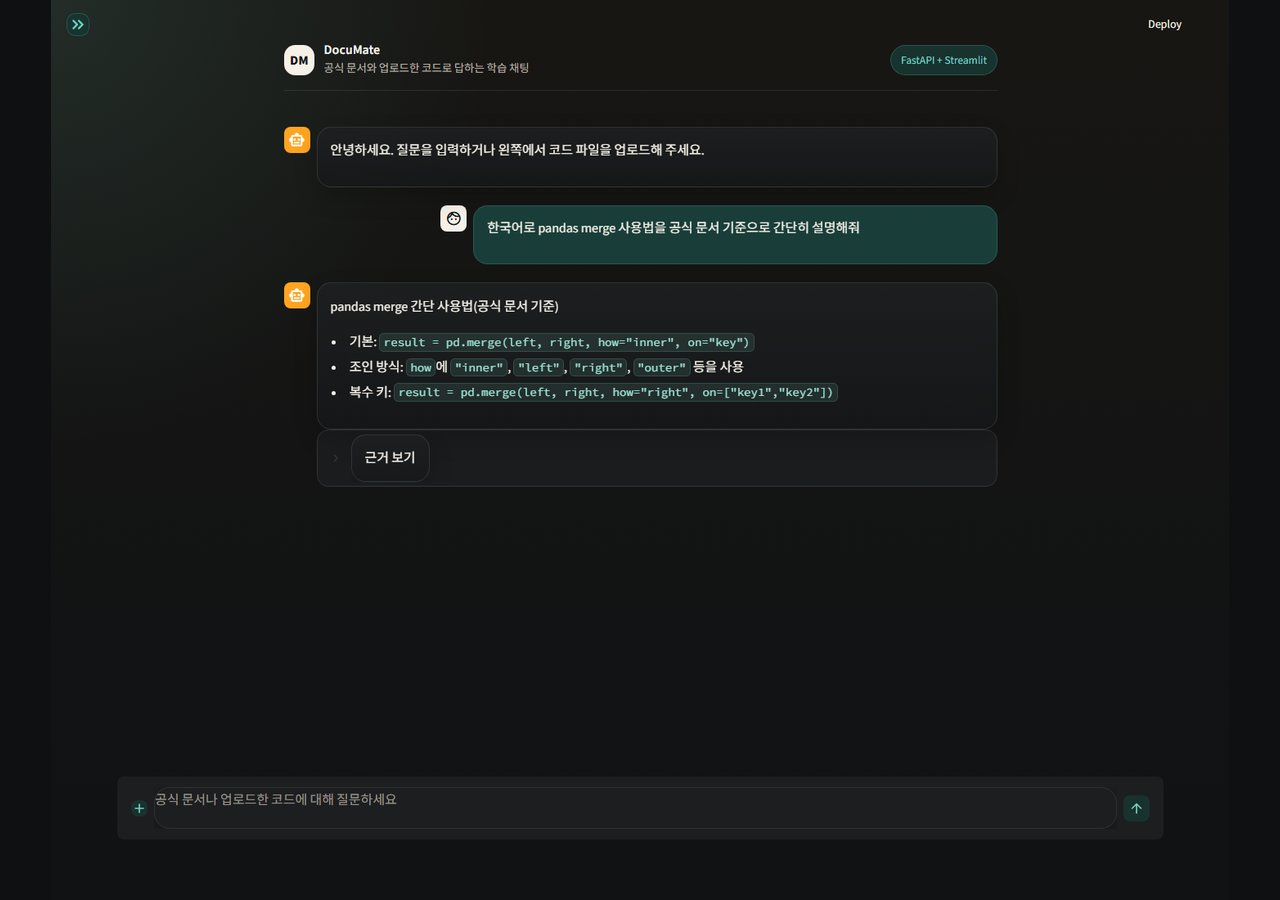
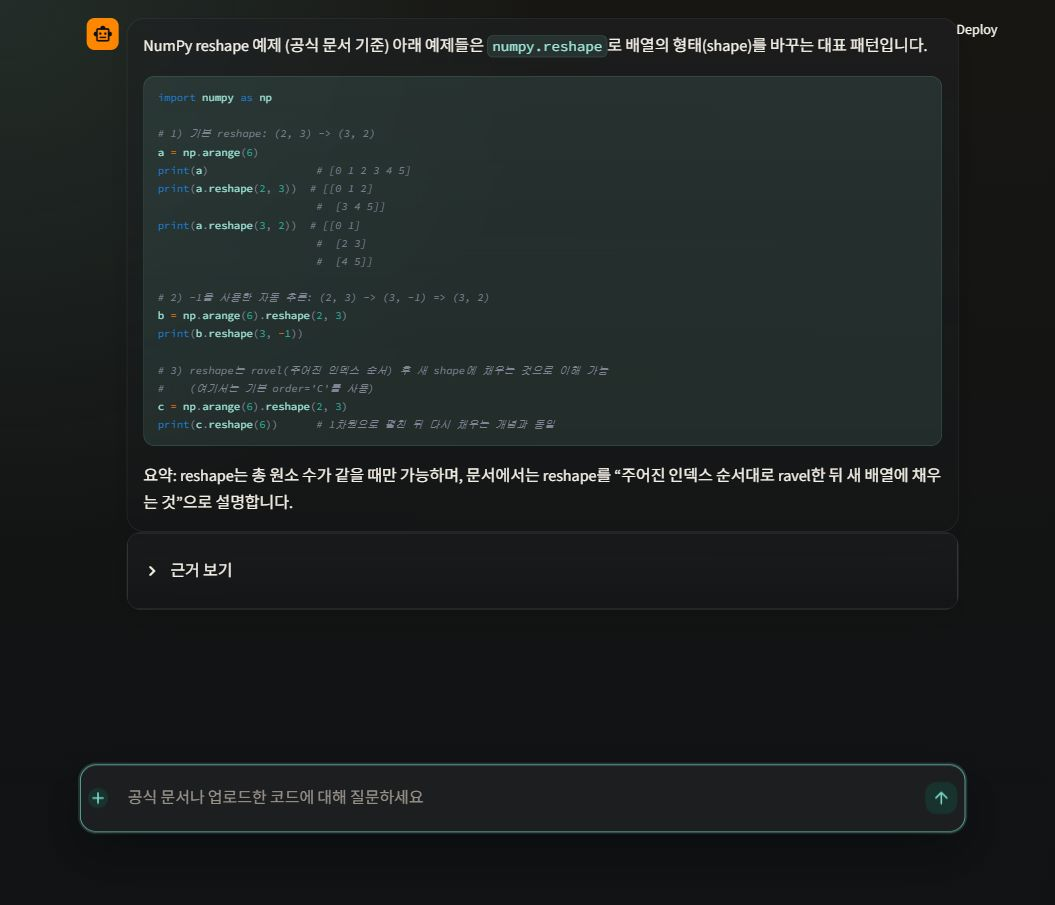
docs: refresh app demo assets

diff --git a/README.md b/README.md
@@ -11,7 +11,7 @@ LangGraph 기반 학습 보조 에이전트입니다. 현재 프로젝트는 공
 
 ## 실제 앱 데모
 
-아래 GIF는 2026-05-04 KST에 현재 Streamlit 화면을 실제 Edge 렌더링으로 캡처한 데모입니다. 라이트/다크 테마, 질문 입력창 옆 파일 첨부, 사이드바를 접은 상태의 질문 제출과 답변 수신 흐름을 함께 보여줍니다.
+아래 GIF는 2026-05-05 KST에 현재 Streamlit 화면을 실제 Edge 렌더링으로 캡처한 데모입니다. 라이트/다크 테마, 질문 입력창 옆 파일 첨부, 사이드바를 접은 상태의 질문 제출과 답변 수신 흐름을 함께 보여줍니다.
 
 ![DocuMate actual app demo](docs/assets/demo-flow.gif)
 
